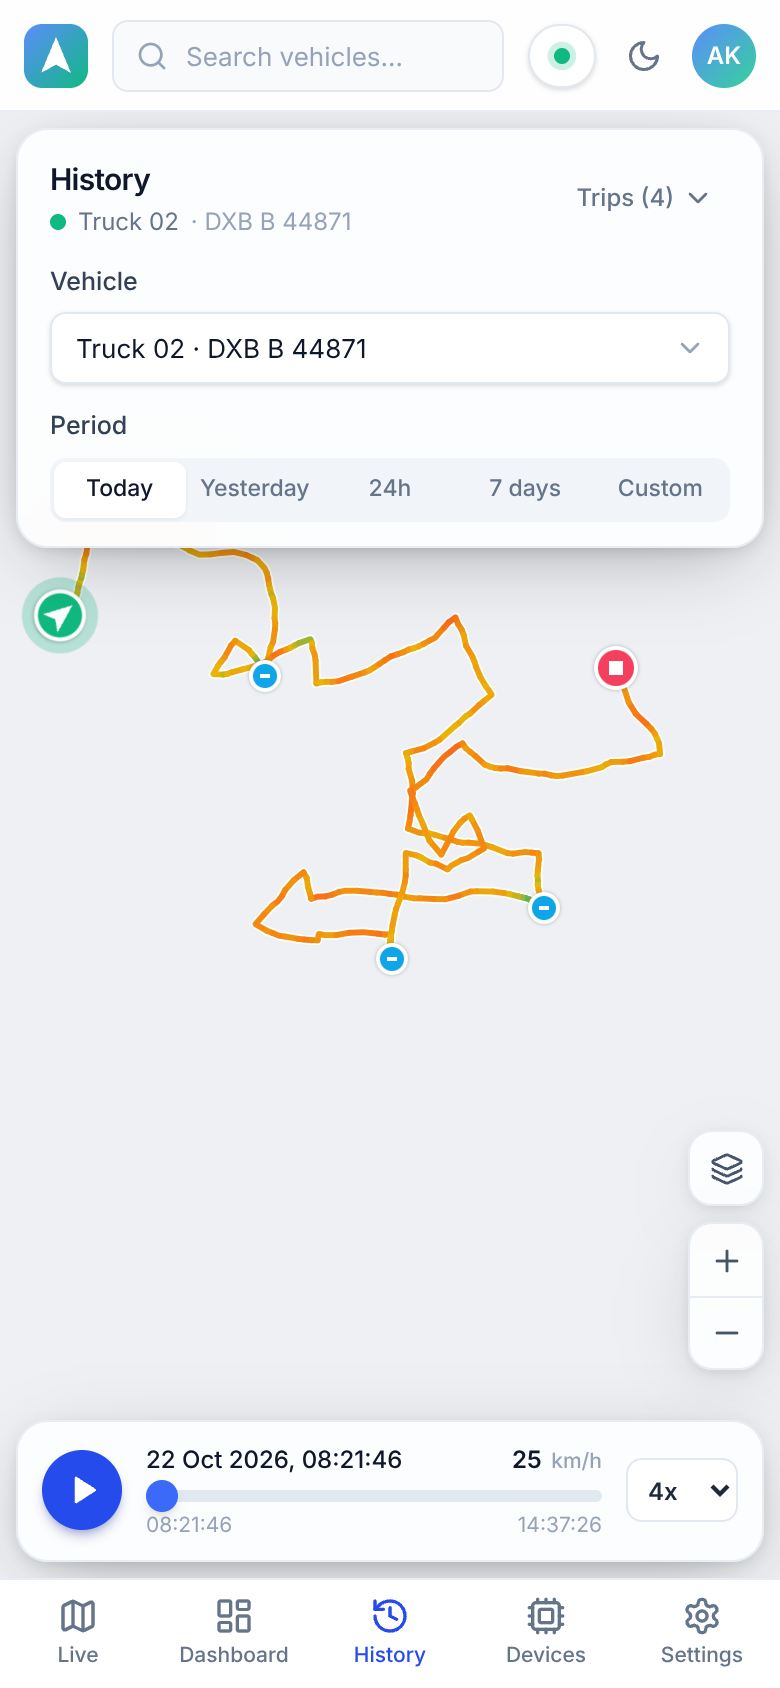
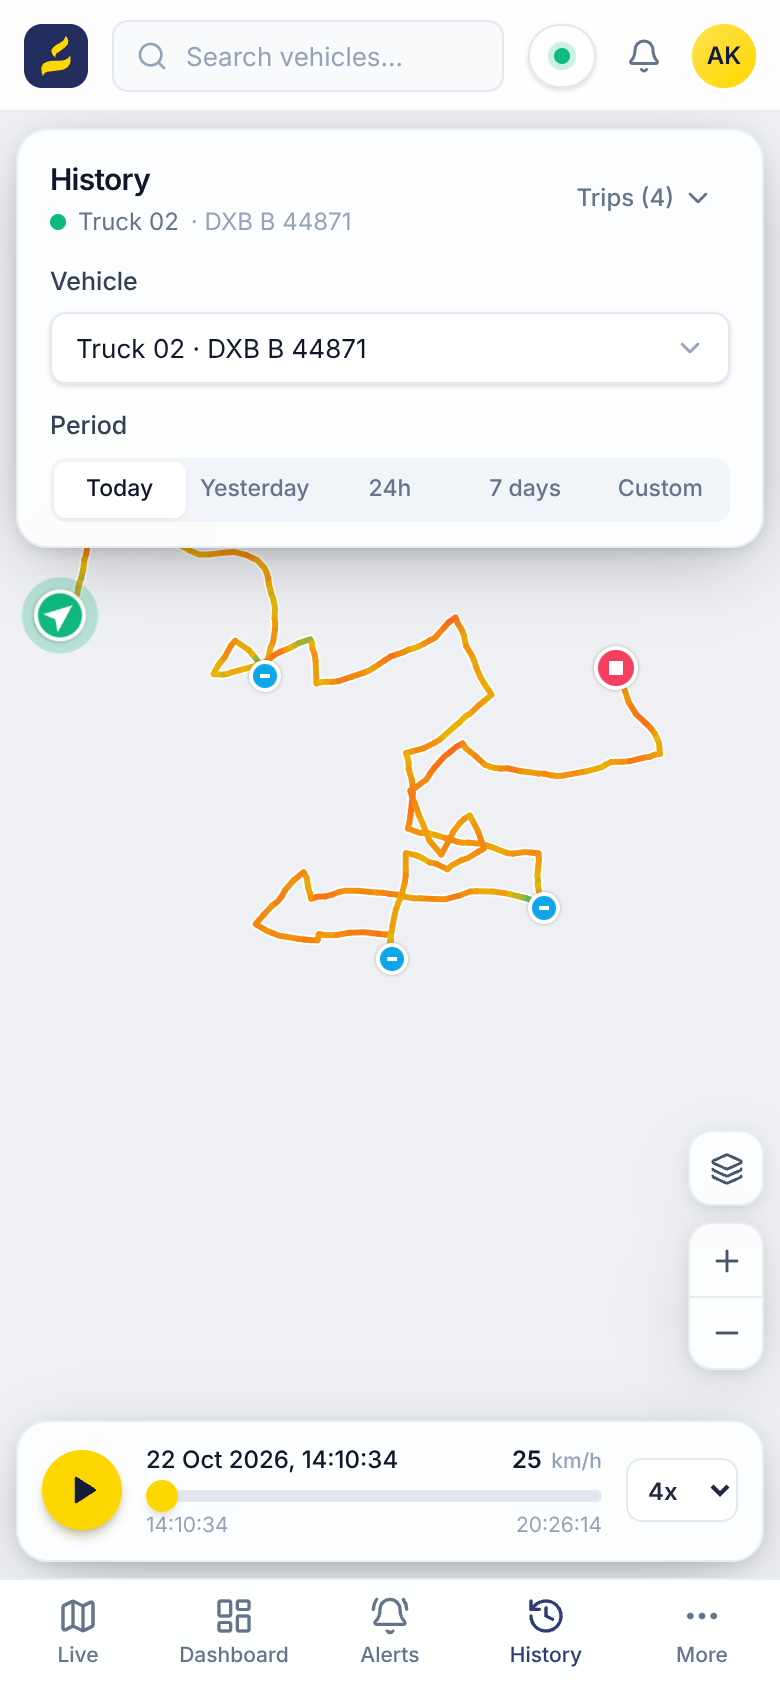
Rebrand UI to Somtel: gold #FFD700 primary, navy #222D5D secondary
- Tailwind brand scale is now Somtel gold, new navy scale, navy-tinted
  dark surfaces; light-mode accent text uses navy for contrast and solid
  gold fills carry navy text
- Logo and favicon use the official Somtel artwork (paths extracted
  from the brand SVGs); app name 'Somtel Fleet'

Claude-Session: https://claude.ai/code/session_019thz21iM9a5ChAgMwHte9m

diff --git a/web/src/components/layout/Logo.tsx b/web/src/components/layout/Logo.tsx
@@ -1,29 +1,52 @@
-import { useId } from 'react'
 import { APP_NAME } from '@/config'
 import { cn } from '@/lib/cn'
 
+// Somtel brand artwork, extracted from the official logo SVGs (do not redraw).
+// Brand colours: primary gold #FFD700, secondary navy #222D5D.
+const MARK_PATHS = [
+  'M79,443.64a54.94,54.94,0,0,1-4.25-9c-6-14.9-10.23-30.22-10.18-46.37.09-27.75,13-47.4,38.83-58.54,11.73-5.06,24.12-7.61,36.79-8.92,21.53-2.23,43.13-1.23,64.71-1.36,11.64-.06,23.26,0,34.65-2.84,15.53-3.89,30.12-9.76,42.62-20a58.43,58.43,0,0,0,13.55-15.55c.37-.64.6-1.71,1.53-1.58.73.1.78,1.05.95,1.72,5.33,21.52,5.88,42.88-2.72,63.78-6.81,16.57-18.77,28.61-34.5,37.14-13.69,7.43-28.5,11.54-43.87,13.6-19.61,2.63-39.28,4.87-58.92,7.29-14.41,1.77-28.9,3-43.19,5.47-15.3,2.59-27.12,10.44-33,25.38-.61,1.53-.88,3.18-1.41,4.75S80.27,441.91,79,443.64Z',
+  'M180.53,294.71a5,5,0,0,1-1.29-.34c-11.42-8.34-21.08-18.26-27.32-31-8.5-17.36-5.69-33.47,6.23-48.28,8.63-10.72,19.71-18.53,31.49-25.53,9.31-5.52,19.48-9.39,28.85-14.75,14.9-8.53,27.37-19.59,35.8-34.65a65.2,65.2,0,0,0,7-18.78c.14-.67,0-1.57.83-1.78s1.18.61,1.61,1.13c9.31,11.49,16,24.2,17.79,39,1.81,15.33-3,28.8-12.83,40.69-7.25,8.75-16.58,15-25.65,21.63-16.1,11.71-31.87,23.88-48.3,35.14a76.52,76.52,0,0,0-6.9,4.82c-8.83,7.61-11.57,17.11-8.54,28.26C179.67,291.65,180.07,293,180.53,294.71Z',
+]
+const WORD_PATHS = [
+  'M480.19,330.88c0-14.19,0-28.38,0-42.57,0-1.73.57-2.44,2.25-2.78,3.58-.71,7.14-1.27,10.8-.62a13.64,13.64,0,0,1,11.31,9.7c.16.47.09,1.12.71,1.28s1-.52,1.28-1a26.91,26.91,0,0,1,21.42-11.6,20.27,20.27,0,0,1,16.89,7.21,52.33,52.33,0,0,1,4.43,5.53c.78,1.17,1.33,1.11,2.12-.07,5.29-7.95,12.95-11.47,22.3-11.76a33.39,33.39,0,0,1,9.61.87c9,2.38,13.93,8.73,16.55,17.24a39.31,39.31,0,0,1,1.66,11.6q.06,28.73,0,57.45c0,8.74-5.4,15.2-14,16.68-3.89.68-7-1-9.49-3.85a20,20,0,0,1-5-13.45c.1-20.18,0-40.37,0-60.56,0-2.59,0-2.55-2.68-3-3.44-.54-6.8-.51-10,1.14-3.4,1.77-5.36,4.57-5.19,8.49.49,11.4.84,22.82.79,34.23,0,8.54.61,17.21-2.21,25.54a20.91,20.91,0,0,1-3.07,6.16c-3.9,5.07-14.58,6.89-19.78-.39a26.09,26.09,0,0,1-5-15.53q0-28.47,0-56.94c0-2.47,0-2.58-2.47-2.79-8.91-.76-14.89,4.23-15,12.94-.16,16,0,31.95-.06,47.93a29.31,29.31,0,0,1-3.75,14.75c-2.24,3.91-5.3,6.85-10.14,6.63-6-.26-10.17-3.36-12.61-8.79a19.93,19.93,0,0,1-1.76-8.39C480.21,358.46,480.19,344.67,480.19,330.88Z',
+  'M740.81,328.44c-.23,3.33.29,6.79-.34,10.23a10.62,10.62,0,0,1-10.8,8.57c-6.91-.05-13.82.25-20.74.38-4.38.08-8.77.12-13.15.2-2.47,0-2.63.3-2.17,2.78a30.25,30.25,0,0,0,2.71,8.35c3.7,7.32,9.59,10.31,17.76,9.33,5.85-.7,11.67-1.4,17.22-3.5,1.37-.51,1.77.24,1.86,1.41.51,6.66-1.72,12.27-7,16.24-11,8.18-23.1,9.65-35.61,4.28-7.13-3.06-12.32-8.81-16.62-15.25s-6.21-13.54-7.08-21.09a98,98,0,0,1-.28-21c1.21-11.9,4.38-23.12,12.36-32.43,6.56-7.66,14.84-11.93,25.07-12,3.8,0,7.64-.41,11.4.21,7.06,1.16,12.2,5.55,16.62,10.79,5.29,6.28,7.84,13.7,8.55,21.85C740.83,321.3,740.63,324.81,740.81,328.44ZM716,322a20.59,20.59,0,0,0-.35-4.72c-1.12-8.38-7-13.09-15.37-12.36a3.79,3.79,0,0,0-3.8,3.9,34.5,34.5,0,0,0,0,4.66c.41,4,1.51,7.83,4.81,10.55,3.58,2.95,7.79,3.38,12.22,2.89A2.46,2.46,0,0,0,716,324.3C716,323.55,716,322.8,716,322Z',
+  'M634.09,265.2c7.27,0,10.68,2.77,12.18,9.94.29,1.41.52,2.83.73,4.25a9.52,9.52,0,0,0,8.22,8.32c1,.18,2.06.29,3,.56a9.36,9.36,0,0,1,7,8.66c0,4-3,7.72-7.22,8.91-.33.09-.67.15-1,.22-7.18,1.57-11.07,6.3-10.83,13.78.28,8.57.87,17.14,1.33,25.71q.38,7.06.77,14.14a7.51,7.51,0,0,0,7.45,7.35,12.15,12.15,0,0,0,5.74-1c.58-.27,1.25-.6,1.38.49.7,6,.25,11.75-3.1,17a10.13,10.13,0,0,1-6.72,4.47,36.31,36.31,0,0,1-16.62.12c-8.85-2.23-13.76-8.39-16.29-16.76a46.14,46.14,0,0,1-1.79-12.27q-.45-18.93-1.11-37.84c-.11-3-.25-6-.28-9,0-3.73-1.7-6.48-5.11-7.92s-5.36-3.42-5.62-7.12c-.33-4.64.59-8.63,5.13-11a13.5,13.5,0,0,1,2.34-1.11,4.67,4.67,0,0,0,3.61-4.51,20.64,20.64,0,0,1,.72-3.37C620.4,269.13,625.63,265.2,634.09,265.2Z',
+  'M776.14,318.62c0,19.78-.11,39.56.07,59.34.06,5.33-5.39,11.62-11.64,11.73-7,.12-12.12-3.39-13.69-9.5a17.6,17.6,0,0,1-.45-4.46q0-57.11,0-114.19c0-5.19,1.55-9.51,6.13-12.39a13.1,13.1,0,0,1,18.55,5.12,10,10,0,0,1,1.07,4.66Q776.12,288.78,776.14,318.62Z',
+  'M388,288.5c-1.59,5.4-4.23,15-10.28,16.17-4,.73-9-1.1-12.92.26-3.41,1.21-6.05,4.31-5.28,9.41,1.1,7.34,12.94,10.78,19.09,15.86,6.93,5.77,13.61,13.75,12.64,28.2-.73,10.86-6.07,18.4-13.53,22.9-6,3.63-19.48,7.95-30.24,5.3-8.22-2.07-11.45-13.8-9.7-25,6.39,4.13,31.95,11.25,28.79-6.16-.84-4.66-7.2-8.61-11.45-11.17-9.81-5.89-19.41-13-20.27-27-1.08-17.37,11-31.64,28.5-33.18C373.69,283.19,380.52,285.41,388,288.5Z',
+  'M429.25,286c19.21-2.21,30.52,7.73,36.46,19.91,8.48,17.37,8.38,49.56-2.37,66.25-8.57,13.33-31.67,23.73-50.68,10.55-15.61-10.83-22.06-39.65-15.42-65.37C401.19,302.05,411,288.08,429.25,286Zm-5.93,32.22a94.56,94.56,0,0,0-1.78,19.06c.06,13.36,1.63,33.18,13.94,30.77C444,366.41,445,347.3,445,337c0-11.74-1.23-31.83-12.16-30.76C427.16,306.77,424.55,312.89,423.32,318.24Z',
+]
+const WORD_EVENODD = [4, 5]
+const MARK_VIEWBOX = '64.6 119.6 237.5 324.1'
+
+/** Gold Somtel swoosh on a navy tile — app icon / favicon style. */
 export function LogoMark({ className }: { className?: string }) {
-  // unique id: a gradient defined inside a display:none subtree would not render elsewhere
-  const id = useId()
   return (
     <svg viewBox="0 0 32 32" className={cn('h-8 w-8', className)} aria-hidden>
-      <defs>
-        <linearGradient id={id} x1="0" y1="0" x2="1" y2="1">
-          <stop offset="0" stopColor="#5c8dfd" />
-          <stop offset="1" stopColor="#10b981" />
-        </linearGradient>
-      </defs>
-      <rect width="32" height="32" rx="9" fill={`url(#${id})`} />
-      <path d="M16 6.5 L23.5 24.5 L16 20.3 L8.5 24.5 Z" fill="#fff" />
+      <rect width="32" height="32" rx="9" fill="#222d5d" />
+      <svg x="8.6" y="4.6" width="14.8" height="22.8" viewBox={MARK_VIEWBOX}>
+        {MARK_PATHS.map((d, i) => (
+          <path key={i} d={d} fill="#ffd700" />
+        ))}
+      </svg>
     </svg>
   )
 }
 
+/** Full lockup: gold swoosh + "somtel" wordmark (inherits text colour) + product label. */
 export function Logo({ className }: { className?: string }) {
   return (
-    <span className={cn('inline-flex items-center gap-2.5', className)}>
-      <LogoMark />
-      <span className="text-[17px] font-semibold tracking-tight">{APP_NAME}</span>
+    <span className={cn('inline-flex items-center gap-2.5', className)} aria-label={APP_NAME}>
+      <svg viewBox="60 115 720 333" className="h-8 w-auto" aria-hidden>
+        {MARK_PATHS.map((d, i) => (
+          <path key={i} d={d} fill="#ffd700" />
+        ))}
+        {WORD_PATHS.map((d, i) => (
+          <path key={i} d={d} fill="currentColor" fillRule={WORD_EVENODD.includes(i) ? 'evenodd' : undefined} />
+        ))}
+      </svg>
+      <span className="rounded-md border border-current px-1.5 py-0.5 text-[11px] font-semibold uppercase tracking-[0.14em] opacity-70">
+        Fleet
+      </span>
     </span>
   )
 }

diff --git a/web/src/pages/Login.tsx b/web/src/pages/Login.tsx
@@ -11,7 +11,7 @@ import { ThemeToggle } from '@/components/layout/TopBar'
 
 function BrandPanel() {
   return (
-    <div className="relative hidden overflow-hidden bg-ink-950 lg:flex lg:w-[52%] lg:flex-col lg:justify-between lg:p-12">
+    <div className="relative hidden overflow-hidden bg-navy-900 lg:flex lg:w-[52%] lg:flex-col lg:justify-between lg:p-12">
       {/* backdrop: grid + glow + stylised routes */}
       <div
         className="absolute inset-0 opacity-[0.35]"
@@ -22,8 +22,8 @@ function BrandPanel() {
           maskImage: 'radial-gradient(ellipse at 40% 45%, black 30%, transparent 75%)',
         }}
       />
-      <div className="absolute -left-24 top-1/4 h-[420px] w-[420px] rounded-full bg-brand-600/30 blur-[120px]" />
-      <div className="absolute bottom-0 right-0 h-[360px] w-[360px] rounded-full bg-emerald-500/20 blur-[120px]" />
+      <div className="absolute -left-24 top-1/4 h-[420px] w-[420px] rounded-full bg-brand-500/20 blur-[120px]" />
+      <div className="absolute bottom-0 right-0 h-[360px] w-[360px] rounded-full bg-navy-500/40 blur-[120px]" />
       <svg
         className="absolute inset-0 h-full w-full"
         viewBox="0 0 600 700"
@@ -33,9 +33,9 @@ function BrandPanel() {
       >
         <defs>
           <linearGradient id="r1" x1="0" x2="1">
-            <stop offset="0" stopColor="#5c8dfd" stopOpacity="0" />
-            <stop offset="0.5" stopColor="#5c8dfd" />
-            <stop offset="1" stopColor="#10b981" />
+            <stop offset="0" stopColor="#ffd700" stopOpacity="0" />
+            <stop offset="0.5" stopColor="#ffd700" />
+            <stop offset="1" stopColor="#fff5bf" />
           </linearGradient>
         </defs>
         <path d="M-20 520 C 120 470, 160 330, 290 340 S 470 230, 620 170" fill="none" stroke="url(#r1)" strokeWidth="3" strokeLinecap="round" />
@@ -67,7 +67,7 @@ function BrandPanel() {
         </p>
         <h2 className="text-[34px] font-semibold leading-[1.15] tracking-tight text-white">
           Every vehicle, every second,
-          <span className="bg-gradient-to-r from-brand-300 to-emerald-300 bg-clip-text text-transparent"> one map.</span>
+          <span className="bg-gradient-to-r from-brand-300 to-brand-500 bg-clip-text text-transparent"> one map.</span>
         </h2>
         <p className="mt-4 text-[15px] leading-relaxed text-slate-400">
           Live positions, trip history and fleet health from your Teltonika trackers — streamed straight to your browser.

diff --git a/web/src/pages/Geofences.tsx b/web/src/pages/Geofences.tsx
@@ -158,7 +158,7 @@ function DrawBanner({
       role="status"
       className="glass pointer-events-auto absolute inset-x-2 top-2 z-20 flex animate-slide-up items-center gap-2 rounded-2xl py-1.5 pl-3 pr-1.5 md:inset-x-auto md:left-1/2 md:top-3 md:-translate-x-1/2"
     >
-      <span className="grid h-7 w-7 shrink-0 place-items-center rounded-lg bg-brand-500/12 text-brand-600 dark:text-brand-300">
+      <span className="grid h-7 w-7 shrink-0 place-items-center rounded-lg bg-brand-500/12 text-navy-600 dark:text-brand-300">
         <MousePointerClick className="h-4 w-4" />
       </span>
       <span className="min-w-0 flex-1 text-[12.5px] font-medium text-slate-800 dark:text-slate-100 md:whitespace-nowrap">{text}</span>
@@ -607,7 +607,7 @@ function NewItem({ icon, title, text, onClick }: { icon: ReactNode; title: strin
       onClick={onClick}
       className="flex w-full items-start gap-3 rounded-lg px-2.5 py-2 text-left hover:bg-slate-900/5 dark:hover:bg-white/[0.07]"
     >
-      <span className="mt-0.5 text-brand-600 dark:text-brand-300">{icon}</span>
+      <span className="mt-0.5 text-navy-600 dark:text-brand-300">{icon}</span>
       <span>
         <span className="block font-medium text-slate-900 dark:text-white">{title}</span>
         <span className="block text-[11.5px] text-slate-500 dark:text-slate-400">{text}</span>
@@ -625,7 +625,7 @@ function ShapeSummary({ editor, onDraft, error }: { editor: Editor; onDraft: (d:
   if (!complete) {
     return (
       <div className={cn('flex gap-3 rounded-xl border border-dashed px-3 py-3', error ? 'border-rose-400' : 'border-brand-500/40 bg-brand-500/[0.04]')}>
-        <MousePointerClick className="mt-0.5 h-4 w-4 shrink-0 text-brand-500" />
+        <MousePointerClick className="mt-0.5 h-4 w-4 shrink-0 text-navy-600" />
         <div className="text-[12.5px] text-slate-600 dark:text-slate-300">
           <p className="font-medium text-slate-900 dark:text-white">Draw the shape on the map</p>
           <p className="mt-0.5">

diff --git a/web/src/pages/Settings.tsx b/web/src/pages/Settings.tsx
@@ -28,7 +28,7 @@ function AccountSection() {
     <SettingsCard id="account" icon={<UserRound />} title="Account" description="Your profile and preferences on this device.">
       <div className="divide-y divide-slate-100 dark:divide-white/[0.05]">
         <div className="flex flex-wrap items-center gap-3 pb-4">
-          <span className="grid h-11 w-11 shrink-0 place-items-center rounded-full bg-gradient-to-br from-brand-400 to-emerald-400 text-[14px] font-semibold text-white">
+          <span className="grid h-11 w-11 shrink-0 place-items-center rounded-full bg-gradient-to-br from-brand-300 to-brand-500 text-[14px] font-semibold text-navy-900">
             {initials}
           </span>
           <div className="min-w-0 flex-1">
@@ -36,7 +36,7 @@ function AccountSection() {
             <p className="truncate text-[12.5px] text-slate-500 dark:text-slate-400">{user?.email}</p>
           </div>
           {user?.role && (
-            <span className="rounded-md bg-brand-500/10 px-2 py-0.5 text-[10.5px] font-semibold uppercase tracking-wide text-brand-600 dark:text-brand-300">
+            <span className="rounded-md bg-brand-500/10 px-2 py-0.5 text-[10.5px] font-semibold uppercase tracking-wide text-navy-600 dark:text-brand-300">
               {user.role}
             </span>
           )}
@@ -134,7 +134,7 @@ export default function SettingsPage() {
                     className={cn(
                       'flex items-center gap-2.5 rounded-lg px-3 py-2 text-[13px] font-medium transition-colors',
                       active === id
-                        ? 'bg-brand-500/10 text-brand-700 dark:bg-brand-400/[0.12] dark:text-brand-200'
+                        ? 'bg-brand-500/10 text-navy-700 dark:bg-brand-400/[0.12] dark:text-brand-200'
                         : 'text-slate-600 hover:bg-slate-900/[0.04] hover:text-slate-900 dark:text-slate-400 dark:hover:bg-white/[0.05] dark:hover:text-white',
                     )}
                   >

diff --git a/web/src/components/layout/NavRail.tsx b/web/src/components/layout/NavRail.tsx
@@ -24,7 +24,7 @@ export function NavRail() {
                 cn(
                   'group relative grid h-11 w-11 place-items-center rounded-xl transition-colors',
                   isActive
-                    ? 'bg-brand-500/10 text-brand-600 dark:bg-brand-400/[0.12] dark:text-brand-300'
+                    ? 'bg-brand-500/10 text-navy-600 dark:bg-brand-400/[0.12] dark:text-brand-300'
                     : 'text-slate-500 hover:bg-slate-100 hover:text-slate-900 dark:text-slate-400 dark:hover:bg-white/[0.06] dark:hover:text-white',
                 )
               }
@@ -76,7 +76,7 @@ export function BottomNav() {
           key={to}
           to={to}
           className={({ isActive }) =>
-            cn(item, isActive ? 'text-brand-600 dark:text-brand-300' : 'text-slate-500 dark:text-slate-400')
+            cn(item, isActive ? 'text-navy-600 dark:text-brand-300' : 'text-slate-500 dark:text-slate-400')
           }
         >
           <Icon className="h-5 w-5" />
@@ -88,7 +88,7 @@ export function BottomNav() {
         aria-expanded={more}
         aria-haspopup="menu"
         onClick={() => setMore((m) => !m)}
-        className={cn(item, inRest || more ? 'text-brand-600 dark:text-brand-300' : 'text-slate-500 dark:text-slate-400')}
+        className={cn(item, inRest || more ? 'text-navy-600 dark:text-brand-300' : 'text-slate-500 dark:text-slate-400')}
       >
         <Ellipsis className="h-5 w-5" />
         More
@@ -104,7 +104,7 @@ export function BottomNav() {
                 cn(
                   'flex items-center gap-3 rounded-lg px-3 py-2.5 text-[13.5px] font-medium',
                   isActive
-                    ? 'bg-brand-500/10 text-brand-600 dark:text-brand-300'
+                    ? 'bg-brand-500/10 text-navy-600 dark:text-brand-300'
                     : 'text-slate-700 hover:bg-slate-900/5 dark:text-slate-200 dark:hover:bg-white/[0.07]',
                 )
               }

diff --git a/web/src/lib/events.tsx b/web/src/lib/events.tsx
@@ -74,9 +74,9 @@ export const EVENT_META: Record<EventType, EventMeta> = {
     short: 'Command',
     description: 'A device answered a command',
     icon: Terminal,
-    color: '#3b6af8',
-    chip: 'bg-brand-500/12 text-brand-600 dark:text-brand-300',
-    pill: 'bg-brand-500/12 text-brand-700 ring-brand-500/25 dark:text-brand-300',
+    color: '#e6c200',
+    chip: 'bg-brand-500/12 text-navy-600 dark:text-brand-300',
+    pill: 'bg-brand-500/12 text-navy-700 ring-brand-500/25 dark:text-brand-300',
   },
 }
 
@@ -125,7 +125,7 @@ export const COMMAND_LABEL: Record<CommandType, string> = {
 
 export const COMMAND_STATUS_META: Record<CommandStatus, { label: string; pill: string; dot: string }> = {
   queued: { label: 'Queued', pill: 'bg-amber-500/12 text-amber-700 ring-amber-500/25 dark:text-amber-300', dot: 'bg-amber-500' },
-  sent: { label: 'Sent', pill: 'bg-brand-500/12 text-brand-700 ring-brand-500/25 dark:text-brand-300', dot: 'bg-brand-500' },
+  sent: { label: 'Sent', pill: 'bg-brand-500/12 text-navy-700 ring-brand-500/25 dark:text-brand-300', dot: 'bg-brand-500' },
   success: { label: 'Success', pill: 'bg-emerald-500/12 text-emerald-700 ring-emerald-500/25 dark:text-emerald-300', dot: 'bg-emerald-500' },
   failed: { label: 'Failed', pill: 'bg-rose-500/12 text-rose-700 ring-rose-500/25 dark:text-rose-300', dot: 'bg-rose-500' },
   expired: { label: 'Expired', pill: 'bg-slate-500/12 text-slate-600 ring-slate-500/25 dark:text-slate-400', dot: 'bg-slate-400' },

diff --git a/web/src/components/ui/Button.tsx b/web/src/components/ui/Button.tsx
@@ -7,7 +7,7 @@ type Size = 'sm' | 'md' | 'lg'
 
 const variants: Record<Variant, string> = {
   primary:
-    'bg-brand-600 text-white shadow-sm shadow-brand-900/20 hover:bg-brand-500 active:bg-brand-700 disabled:bg-brand-600/50',
+    'bg-brand-500 font-semibold text-navy-900 shadow-sm shadow-brand-900/20 hover:bg-brand-400 active:bg-brand-600 disabled:bg-brand-500/50',
   secondary:
     'border border-slate-200 bg-white text-slate-700 shadow-soft hover:bg-slate-50 dark:border-white/10 dark:bg-white/[0.04] dark:text-slate-200 dark:hover:bg-white/[0.08]',
   ghost: 'text-slate-600 hover:bg-slate-100 hover:text-slate-900 dark:text-slate-300 dark:hover:bg-white/[0.06] dark:hover:text-white',
@@ -70,7 +70,7 @@ export const IconButton = forwardRef<HTMLButtonElement, IconButtonProps>(functio
       className={cn(
         'inline-grid shrink-0 place-items-center rounded-lg text-slate-500 transition-colors duration-150 hover:bg-slate-100 hover:text-slate-900 disabled:opacity-40 dark:text-slate-400 dark:hover:bg-white/[0.07] dark:hover:text-white',
         size === 'sm' ? 'h-7 w-7' : 'h-9 w-9',
-        active && 'bg-brand-500/10 text-brand-600 hover:bg-brand-500/15 hover:text-brand-600 dark:bg-brand-400/15 dark:text-brand-300 dark:hover:text-brand-200',
+        active && 'bg-brand-500/10 text-navy-600 hover:bg-brand-500/15 hover:text-navy-500 dark:bg-brand-400/15 dark:text-brand-300 dark:hover:text-brand-200',
         className,
       )}
       {...rest}

diff --git a/web/src/components/layout/TopBar.tsx b/web/src/components/layout/TopBar.tsx
@@ -46,7 +46,7 @@ export function UserMenu() {
         aria-expanded={open}
         aria-label="Account menu"
         onClick={() => setOpen((o) => !o)}
-        className="grid h-8 w-8 place-items-center rounded-full bg-gradient-to-br from-brand-400 to-emerald-400 text-[12px] font-semibold text-white shadow-soft ring-2 ring-white dark:ring-ink-900"
+        className="grid h-8 w-8 place-items-center rounded-full bg-gradient-to-br from-brand-300 to-brand-500 text-[12px] font-semibold text-navy-900 shadow-soft ring-2 ring-white dark:ring-ink-900"
       >
         {initials(name)}
       </button>
@@ -56,7 +56,7 @@ export function UserMenu() {
             <p className="truncate font-medium text-slate-900 dark:text-white">{name}</p>
             <p className="truncate text-[12px] text-slate-500 dark:text-slate-400">{user?.email}</p>
             {user?.role && (
-              <span className="mt-1.5 inline-block rounded-md bg-brand-500/10 px-1.5 py-0.5 text-[10.5px] font-semibold uppercase tracking-wide text-brand-600 dark:text-brand-300">
+              <span className="mt-1.5 inline-block rounded-md bg-brand-500/10 px-1.5 py-0.5 text-[10.5px] font-semibold uppercase tracking-wide text-navy-600 dark:text-brand-300">
                 {user.role}
               </span>
             )}

diff --git a/web/src/pages/Dashboard.tsx b/web/src/pages/Dashboard.tsx
@@ -170,7 +170,7 @@ export default function DashboardPage() {
   )
 
   const kpis: Array<{ key: keyof Summary; label: string; icon: ReactNode; color: string }> = [
-    { key: 'total', label: 'Total vehicles', icon: <Truck />, color: '#5c8dfd' },
+    { key: 'total', label: 'Total vehicles', icon: <Truck />, color: '#e6c200' },
     { key: 'moving', label: 'Moving', icon: <Activity />, color: STATUS_META.moving.color },
     { key: 'idle', label: 'Idle', icon: <CirclePause />, color: STATUS_META.idle.color },
     { key: 'stopped', label: 'Stopped', icon: <CircleParking />, color: STATUS_META.stopped.color },
@@ -212,7 +212,7 @@ export default function DashboardPage() {
             title="Live map"
             className="lg:col-span-2"
             action={
-              <Link to="/live" className="inline-flex items-center gap-1 text-[12.5px] font-medium text-brand-600 hover:text-brand-500 dark:text-brand-300">
+              <Link to="/live" className="inline-flex items-center gap-1 text-[12.5px] font-medium text-navy-600 hover:text-navy-500 dark:text-brand-300">
                 Open map <ArrowRight className="h-3.5 w-3.5" />
               </Link>
             }

diff --git a/web/src/features/settings/AdminSections.tsx b/web/src/features/settings/AdminSections.tsx
@@ -128,7 +128,7 @@ export function TelegramBotSection({ settings }: { settings: Settings }) {
                     href={`https://t.me/${settings.telegramBotUsername}`}
                     target="_blank"
                     rel="noreferrer"
-                    className="text-[12px] font-medium text-brand-600 hover:underline dark:text-brand-300"
+                    className="text-[12px] font-medium text-navy-600 hover:underline dark:text-brand-300"
                   >
                     @{settings.telegramBotUsername}
                   </a>
@@ -207,7 +207,7 @@ export function TelegramBotSection({ settings }: { settings: Settings }) {
             {[
               <>
                 In Telegram, open{' '}
-                <a href="https://t.me/BotFather" target="_blank" rel="noreferrer" className="font-medium text-brand-600 hover:underline dark:text-brand-300">
+                <a href="https://t.me/BotFather" target="_blank" rel="noreferrer" className="font-medium text-navy-600 hover:underline dark:text-brand-300">
                   @BotFather
                 </a>{' '}
                 and send <Code>/newbot</Code>.

diff --git a/web/tailwind.config.js b/web/tailwind.config.js
@@ -10,11 +10,18 @@ export default {
       },
       colors: {
         brand: {
-          50: '#eef4ff', 100: '#dae6ff', 200: '#bdd3ff', 300: '#90b6ff', 400: '#5c8dfd',
-          500: '#3b6af8', 600: '#254bed', 700: '#1d39d9', 800: '#1e31b0', 900: '#1e2f8b', 950: '#171f54',
+          // Somtel gold (primary #FFD700)
+          50: '#fffbe5', 100: '#fff5bf', 200: '#ffec85', 300: '#ffe24d', 400: '#ffdb1f',
+          500: '#ffd700', 600: '#e6c200', 700: '#b89b00', 800: '#8a7400', 900: '#5c4d00', 950: '#332b00',
+        },
+        navy: {
+          // Somtel navy (secondary #222D5D = 700)
+          50: '#eef0f8', 100: '#d9ddef', 200: '#b5bce0', 300: '#8a95c9', 400: '#5f6dae',
+          500: '#414f8f', 600: '#2f3c75', 700: '#222d5d', 800: '#1b2449', 900: '#141b37', 950: '#0c1124',
         },
         ink: {
-          950: '#07090e', 900: '#0b0e15', 850: '#10141d', 800: '#151a25', 750: '#1b2130', 700: '#252c3d',
+          // dark-mode surfaces, tinted with the brand navy
+          950: '#070a17', 900: '#0b1022', 850: '#10162c', 800: '#141b36', 750: '#1a2241', 700: '#232c52',
         },
       },
       boxShadow: {

diff --git a/web/src/components/map/MapControls.tsx b/web/src/components/map/MapControls.tsx
@@ -35,7 +35,7 @@ export function ControlButton({
       onClick={onClick}
       className={cn(
         'grid h-9 w-9 place-items-center text-slate-600 transition-colors hover:bg-slate-900/5 hover:text-slate-900 dark:text-slate-300 dark:hover:bg-white/10 dark:hover:text-white [&+&]:border-t [&+&]:border-slate-200/80 dark:[&+&]:border-white/[0.07]',
-        active && '!text-brand-600 dark:!text-brand-300',
+        active && '!text-navy-600 dark:!text-brand-300',
       )}
     >
       {children}
@@ -76,7 +76,7 @@ export function MapControls({ children, className }: { children?: ReactNode; cla
               >
                 <span className="h-5 w-5 rounded-md ring-1 ring-black/10 dark:ring-white/15" style={{ background: s.swatch }} />
                 <span className="flex-1">{s.label}</span>
-                {mapStyle === s.id && <Check className="h-3.5 w-3.5 text-brand-500" />}
+                {mapStyle === s.id && <Check className="h-3.5 w-3.5 text-navy-600" />}
               </button>
             ))}
           </div>
